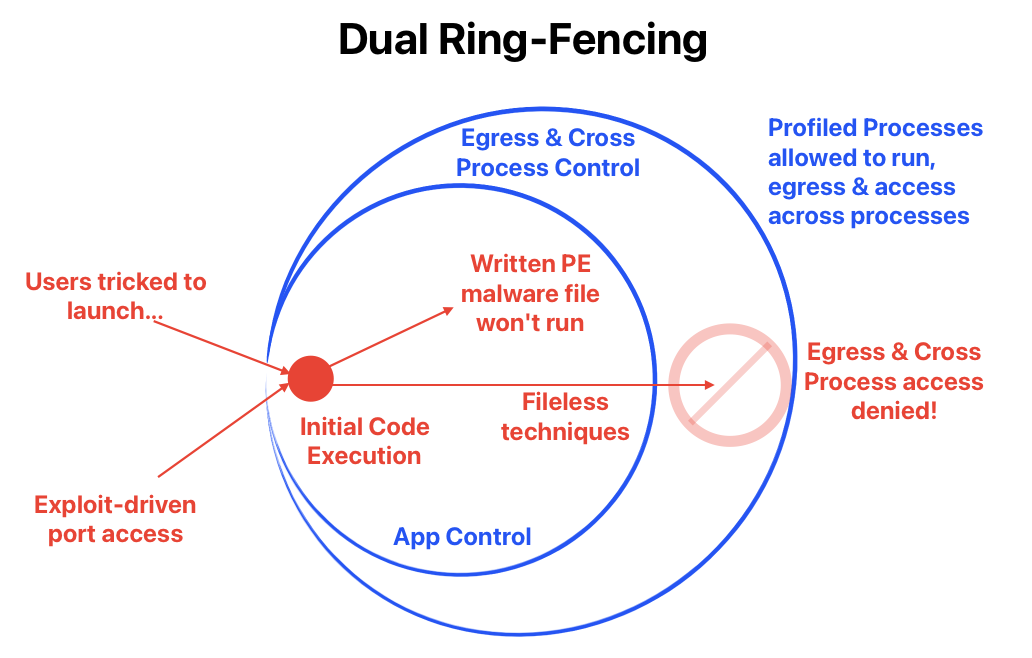
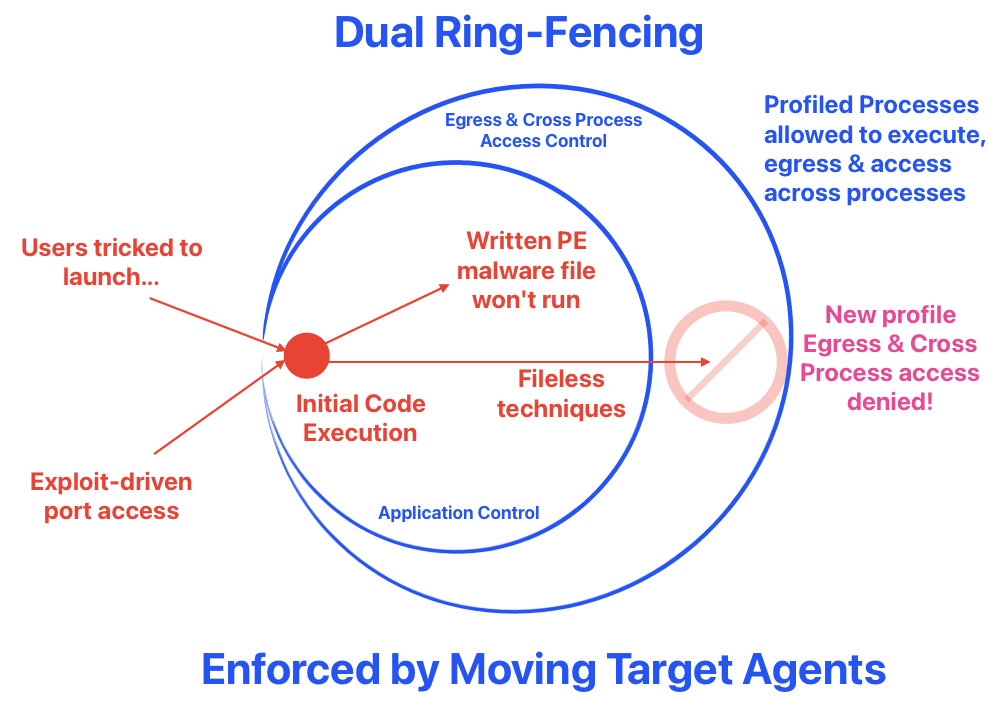
updated diagram

diff --git a/mental models/Code Execution/index.html b/mental models/Code Execution/index.html
@@ -1100,7 +1100,7 @@
 <blockquote>
 <p>The core issue is that most product are very static in nature &amp; there are many ways to disable them despite having anti-tampering in place. This perpetuates the unending cycle of updates to deal with this cat-&amp;-mouse game.</p>
 </blockquote>
-<p>Moving-Target approach is somewhat a fight fire with fire approach, by ditching traditional kernel drivers for light weight portable ring-fenching agents that can be unique per deployment. Doing so realise the ideal characteristics stated in the last row of the Defensive Coverage Matrix. </p>
+<p>Moving-Target agents adopt a fight fire with fire approach, by ditching traditional kernel drivers for light weight portable agents that are unique per deployment. Doing so realise the favorable characteristics stated in the last row of the earlier Defensive Coverage Matrix.</p>
 <p>The benefits of Ring-fencing with Moving Target agents are:</p>
 <ul>
 <li>Long term defensive value suitable for protecting critical infrastructure assets that are adverse to constant driver or related signatures updates.</li>
